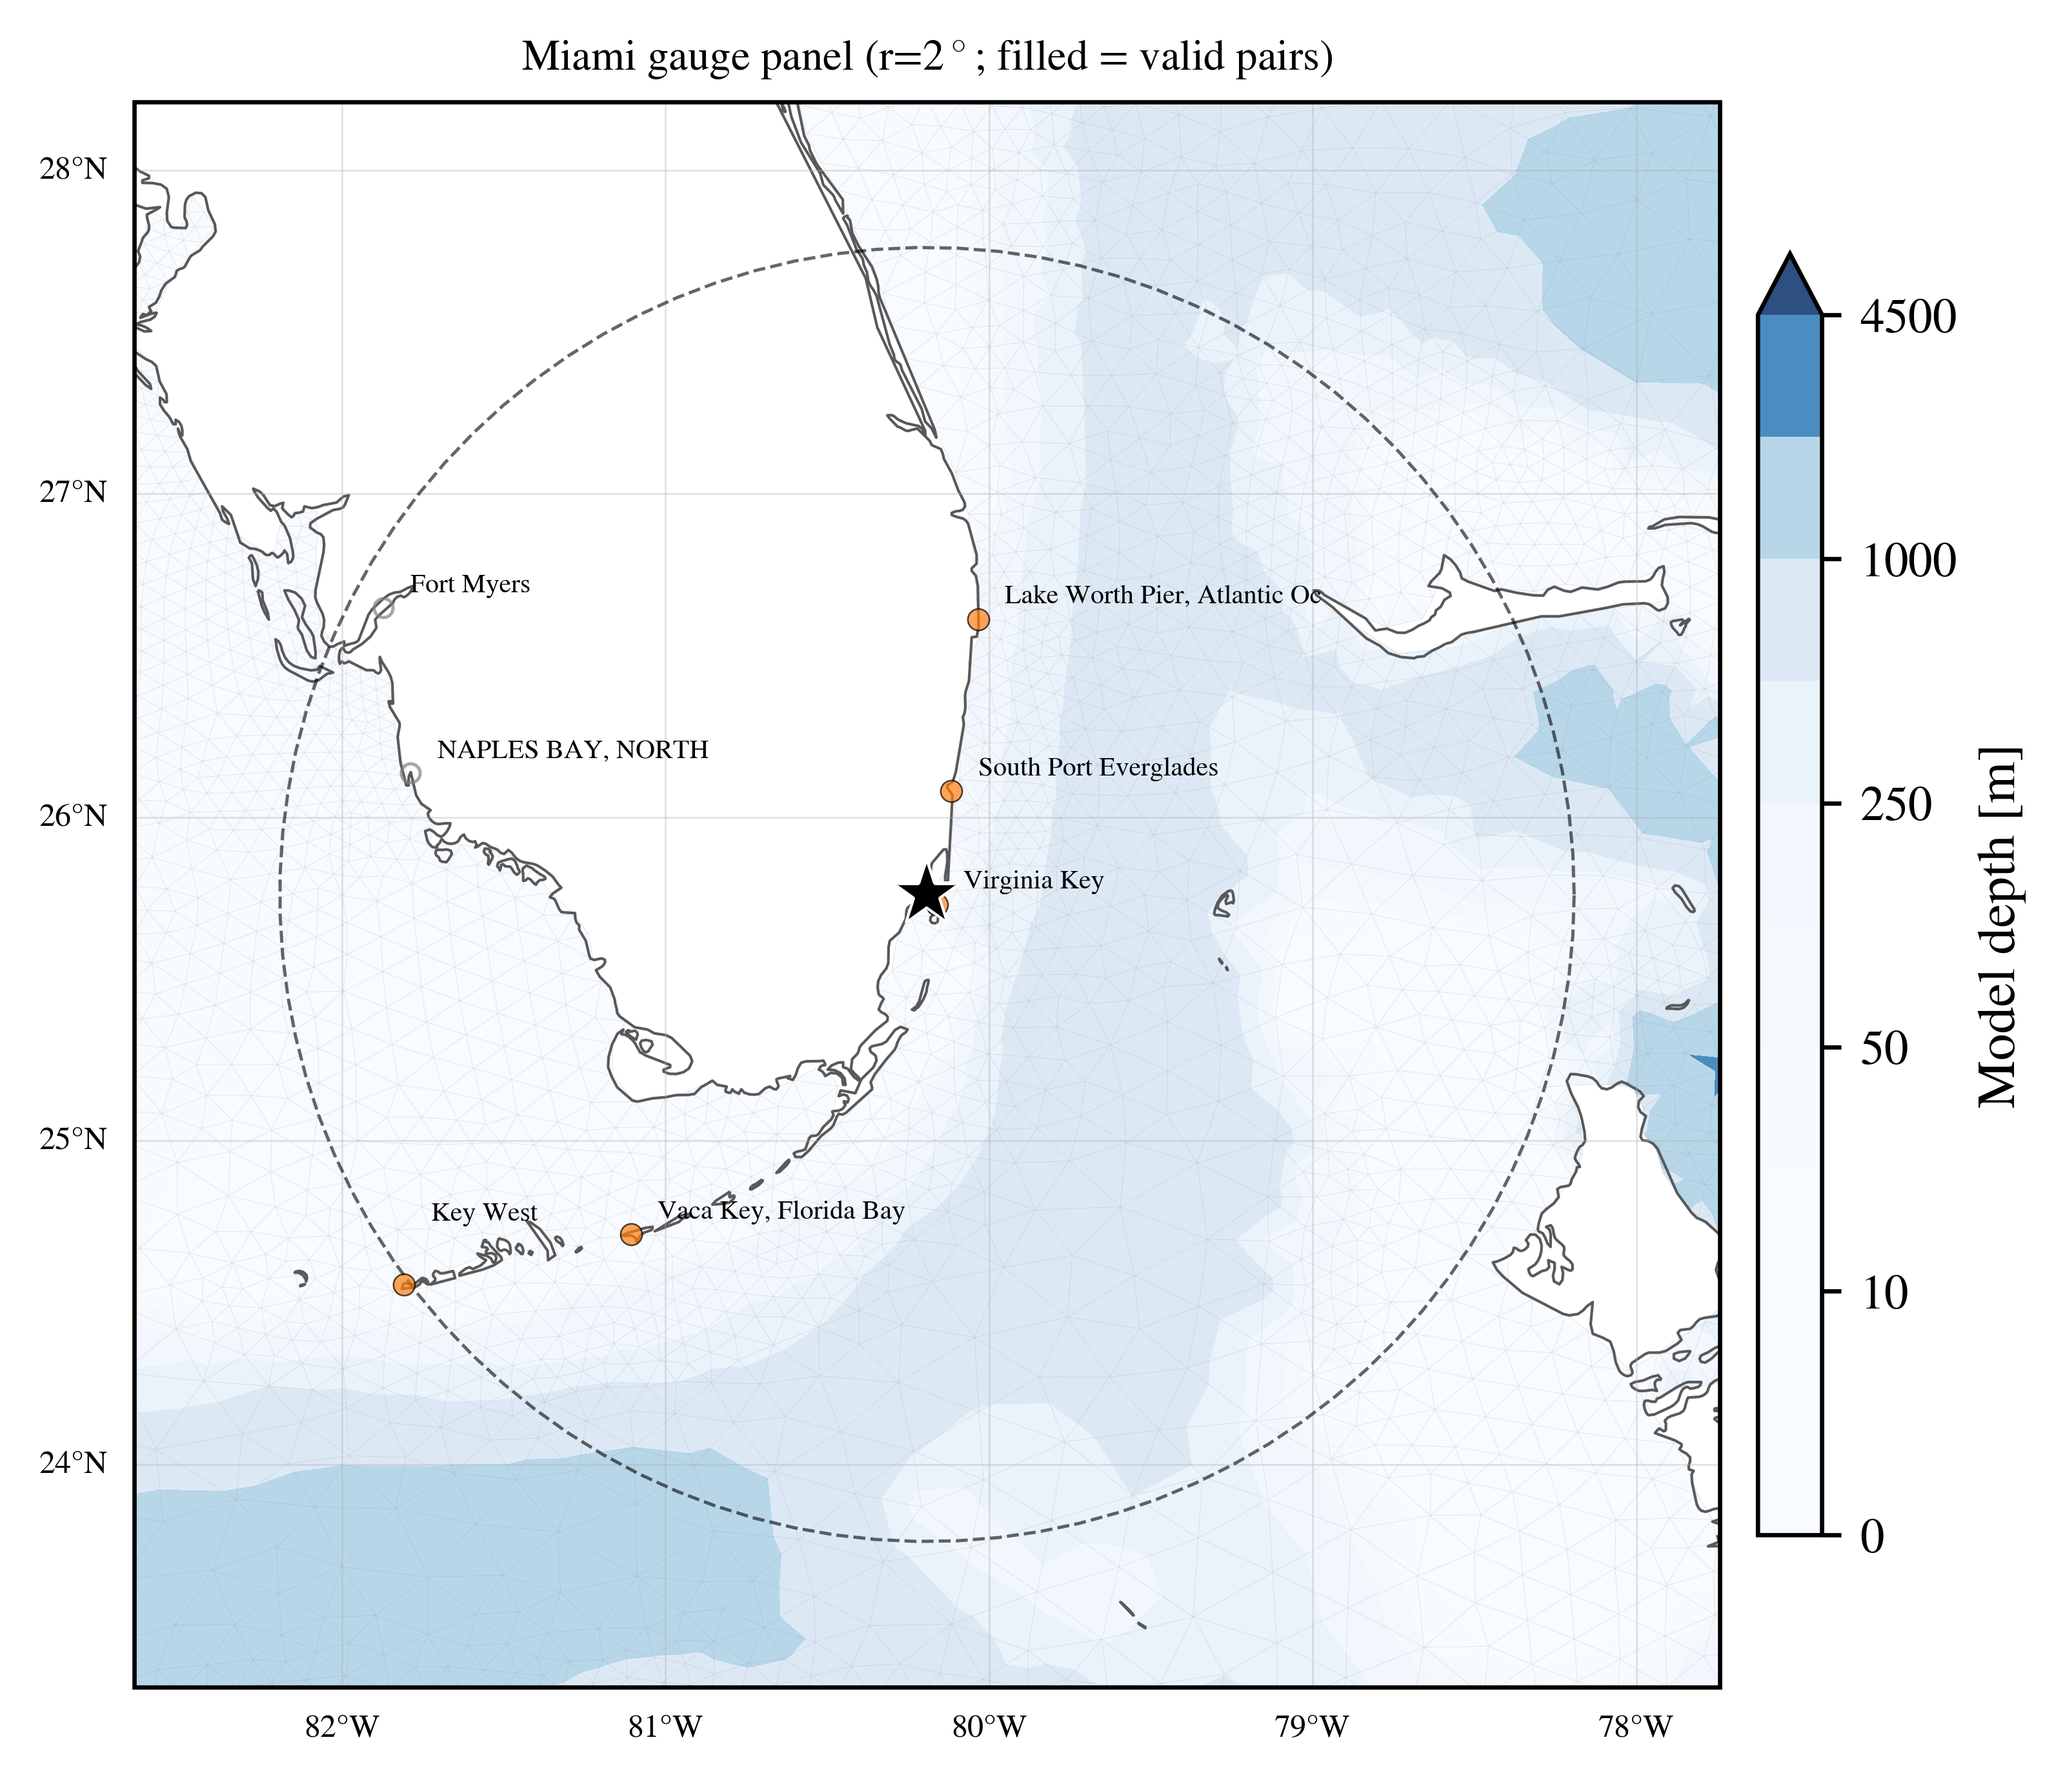
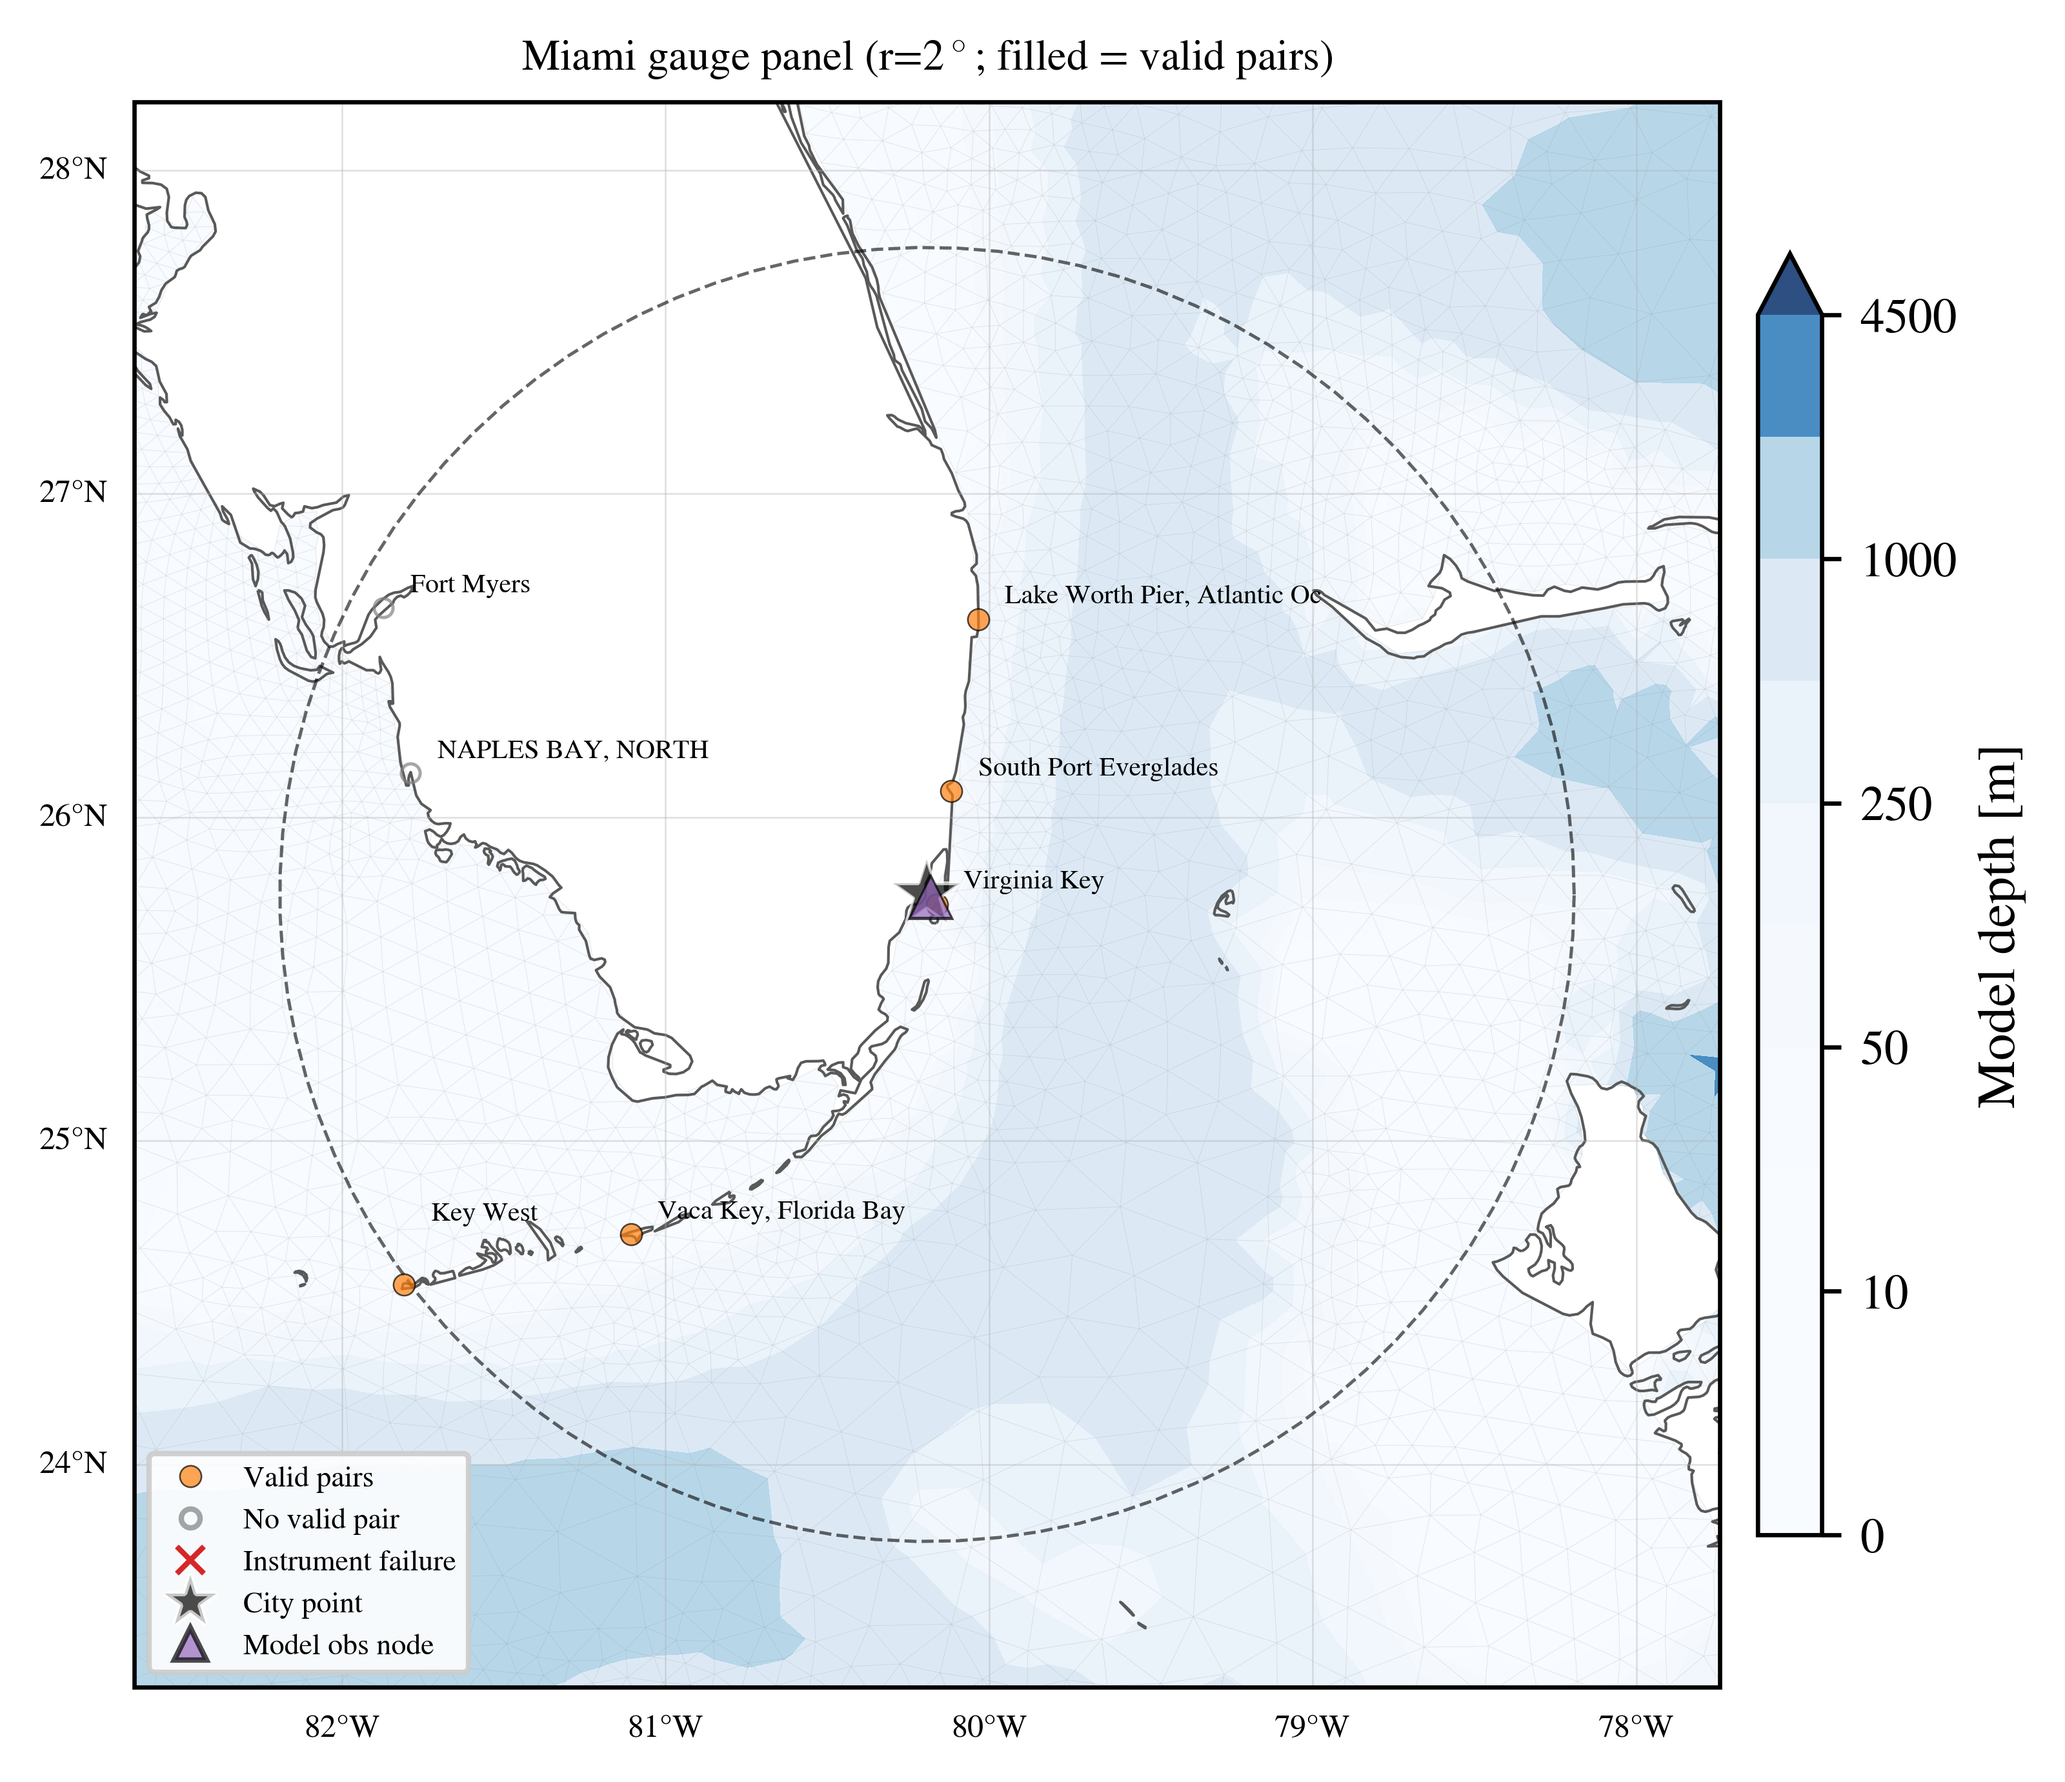
eval maps: model observation node marker + translucent city stars
Both map types now show, per study city, the fort.14 node nearest the
configured city point -- the location wrap.observe_max_point actually
snaps observations to (purple triangle, alpha 0.7; stars also 0.7). For
New Orleans the snap lands ~0.15 deg EAST of the city (the city point
borders unmeshed Lake Pontchartrain), i.e. the BO potential heights are
evaluated in the Lake Borgne corridor -- now visible. Per-city maps gain
a compact marker legend.

Changed region(s): [[0.0625, 0.8096, 0.25, 0.9652], [0.4375, 0.4671, 0.4688, 0.5293]]

diff --git a/adforce/eval/validate.py b/adforce/eval/validate.py
@@ -864,8 +864,17 @@ def plot_gauge_map(max_deg: float = 2.0) -> None:
                 ax.plot(lon, lat, "x", ms=5, color="tab:red", mew=1.0, zorder=5)
 
     theta = np.linspace(0, 2 * np.pi, 100)
+    try:  # the mesh node each city point snaps to (wrap.observe_max_point)
+        _mlon, _mlat, _, _ = _read_fort14()
+        _tree = cKDTree(np.c_[_mlon, _mlat])
+    except Exception:
+        _tree = None
     for city, (clo, cla) in CITY_POINTS.items():
-        ax.plot(clo, cla, "*", ms=11, color="k", mec="w", mew=0.5, zorder=6)
+        ax.plot(clo, cla, "*", ms=11, color="k", mec="w", mew=0.5, alpha=0.7, zorder=6)
+        if _tree is not None:
+            _i = int(_tree.query([clo, cla])[1])
+            ax.plot(_mlon[_i], _mlat[_i], "^", ms=6, color="tab:purple",
+                    mec="k", mew=0.3, alpha=0.7, zorder=6)
         ax.plot(
             clo + max_deg * np.cos(theta),
             cla + max_deg * np.sin(theta),
@@ -899,8 +908,10 @@ def plot_gauge_map(max_deg: float = 2.0) -> None:
                label="Gauge with valid pairs"),
         Line2D([], [], marker="o", ls="", ms=3.5, mfc="none", mec="0.5", label="Panel gauge (no valid pair)"),
         Line2D([], [], marker="x", ls="", ms=5, color="tab:red", label="Known instrument failure"),
-        Line2D([], [], marker="*", ls="", ms=9, color="k", mec="w",
+        Line2D([], [], marker="*", ls="", ms=9, color="k", mec="w", alpha=0.7,
                label=f"Study city (r={max_deg:g}$^\\circ$)"),
+        Line2D([], [], marker="^", ls="", ms=6, color="tab:purple", mec="k",
+               alpha=0.7, label="Model observation node"),
     ]
     handles += ax.get_legend_handles_labels()[0]
     ax.legend(handles=handles, fontsize=5.5, loc="lower left", framealpha=0.9)
@@ -967,7 +978,14 @@ def plot_city_gauge_maps(max_deg: float = 2.0) -> None:
             cs = _draw_mesh_bathymetry(ax, plt, edges=True)
 
         m = max_deg + 0.45
-        ax.plot(clo, cla, "*", ms=13, color="k", mec="w", mew=0.5, zorder=6)
+        ax.plot(clo, cla, "*", ms=13, color="k", mec="w", mew=0.5, alpha=0.7, zorder=6)
+        try:  # the mesh node this city point snaps to (wrap.observe_max_point)
+            _mlon, _mlat, _, _ = _read_fort14()
+            _i = int(cKDTree(np.c_[_mlon, _mlat]).query([clo, cla])[1])
+            ax.plot(_mlon[_i], _mlat[_i], "^", ms=8, color="tab:purple",
+                    mec="k", mew=0.4, alpha=0.7, zorder=6)
+        except Exception:
+            pass
         theta = np.linspace(0, 2 * np.pi, 100)
         ax.plot(
             clo + max_deg * np.cos(theta),
@@ -1014,6 +1032,25 @@ def plot_city_gauge_maps(max_deg: float = 2.0) -> None:
                 fontsize=5,
                 zorder=7,
             )
+        from matplotlib.lines import Line2D
+
+        ax.legend(
+            handles=[
+                Line2D([], [], marker="o", ls="", ms=4, color="tab:orange", mec="k",
+                       mew=0.3, alpha=0.7, label="Valid pairs"),
+                Line2D([], [], marker="o", ls="", ms=3.5, mfc="none", mec="0.5",
+                       alpha=0.7, label="No valid pair"),
+                Line2D([], [], marker="x", ls="", ms=5, color="tab:red",
+                       label="Instrument failure"),
+                Line2D([], [], marker="*", ls="", ms=10, color="k", mec="w",
+                       alpha=0.7, label="City point"),
+                Line2D([], [], marker="^", ls="", ms=6, color="tab:purple", mec="k",
+                       alpha=0.7, label="Model obs node"),
+            ],
+            fontsize=5.5,
+            loc="lower left",
+            framealpha=0.9,
+        )
         ax.set_title(
             f"{city.replace('_', ' ').title()} gauge panel "
             f"(r={max_deg:g}$^\\circ$; filled = valid pairs)",
